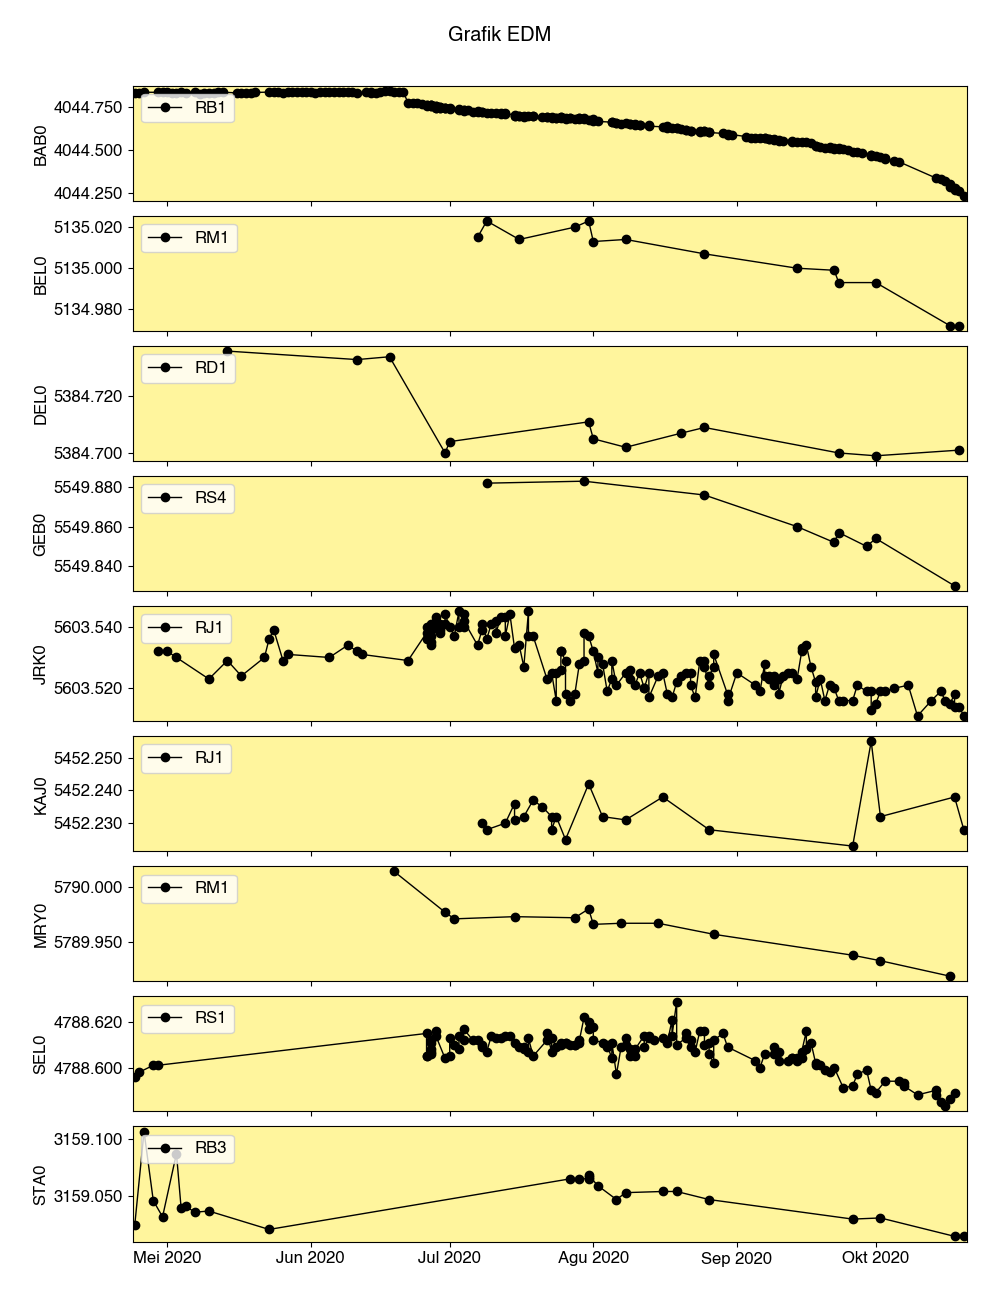
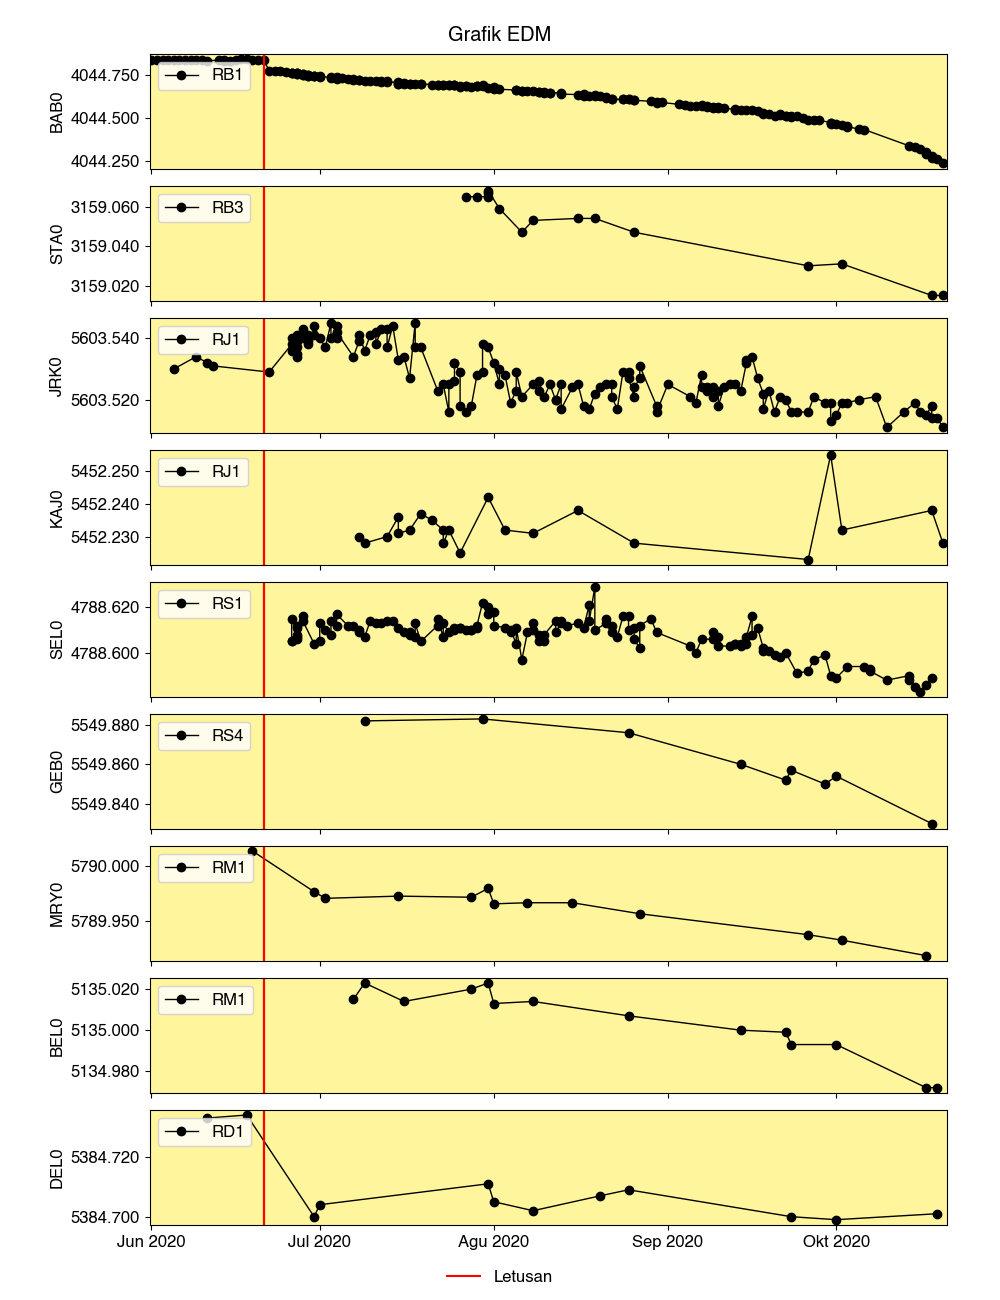
Update edm_multibenchmark.py example

diff --git a/examples/edm_multibenchmark/edm_multibenchmark.py b/examples/edm_multibenchmark/edm_multibenchmark.py
@@ -10,7 +10,7 @@ settings.BMA_API_KEY = os.environ['API_KEY']
 
 # Define global start time and end time
 end = datetime.datetime.now()
-start = end - datetime.timedelta(days=30*6)
+start = datetime.datetime(2020, 6, 1, 0, 0, 0)
 START_TIME = start.strftime('%Y-%m-%d %H:%M:%S')
 END_TIME = end.strftime('%Y-%m-%d %H:%M:%S')
 
@@ -83,9 +83,9 @@ def main():
             'font.sans-serif': ['Helvetica']
         },
         'tight_layout': {
-            'pad': 2,
+            'pad': 3,
             'w_pad': 0.7,
-            'h_pad': 0.3
+            'h_pad': 0.5
         },
         'use_cache': True,
         'layout': {
@@ -98,13 +98,7 @@ def main():
                     'series': create_series('BAB0', 'RB1')
                 },
                 {
-                    'series': create_series('BEL0', 'RM1')
-                },
-                {
-                    'series': create_series('DEL0', 'RD1')
-                },
-                {
-                    'series': create_series('GEB0', 'RS4')
+                    'series': create_series('STA0', 'RB3')
                 },
                 {
                     'series': create_series('JRK0', 'RJ1')
@@ -113,13 +107,19 @@ def main():
                     'series': create_series('KAJ0', 'RJ1')
                 },
                 {
-                    'series': create_series('MRY0', 'RM1')
-                },
-                {
                     'series': create_series('SEL0', 'RS1')
                 },
                 {
-                    'series': create_series('STA0', 'RB3')
+                    'series': create_series('GEB0', 'RS4')
+                },
+                {
+                    'series': create_series('MRY0', 'RM1')
+                },
+                {
+                    'series': create_series('BEL0', 'RM1')
+                },
+                {
+                    'series': create_series('DEL0', 'RD1')
                 },
             ]
         },
@@ -129,8 +129,24 @@ def main():
             'plot': [
                 {
                     'name': 'komapy.extensions.plot_activity_status'
+                },
+                {
+                    'name': 'komapy.extensions.plot_explosion_line',
+                    'label': 'Letusan',
+                    'color': 'red'
+                },
+                {
+                    'name': 'komapy.extensions.plot_dome_appearance',
+                    'label': 'Kubah lava tampak'
                 }
-            ]
+            ],
+            'legend': {
+                'show': True,
+                'loc': 'lower center',
+                'ncol': 2,
+                'frameon': False,
+                'fancybox': False
+            }
         }
     })
 
